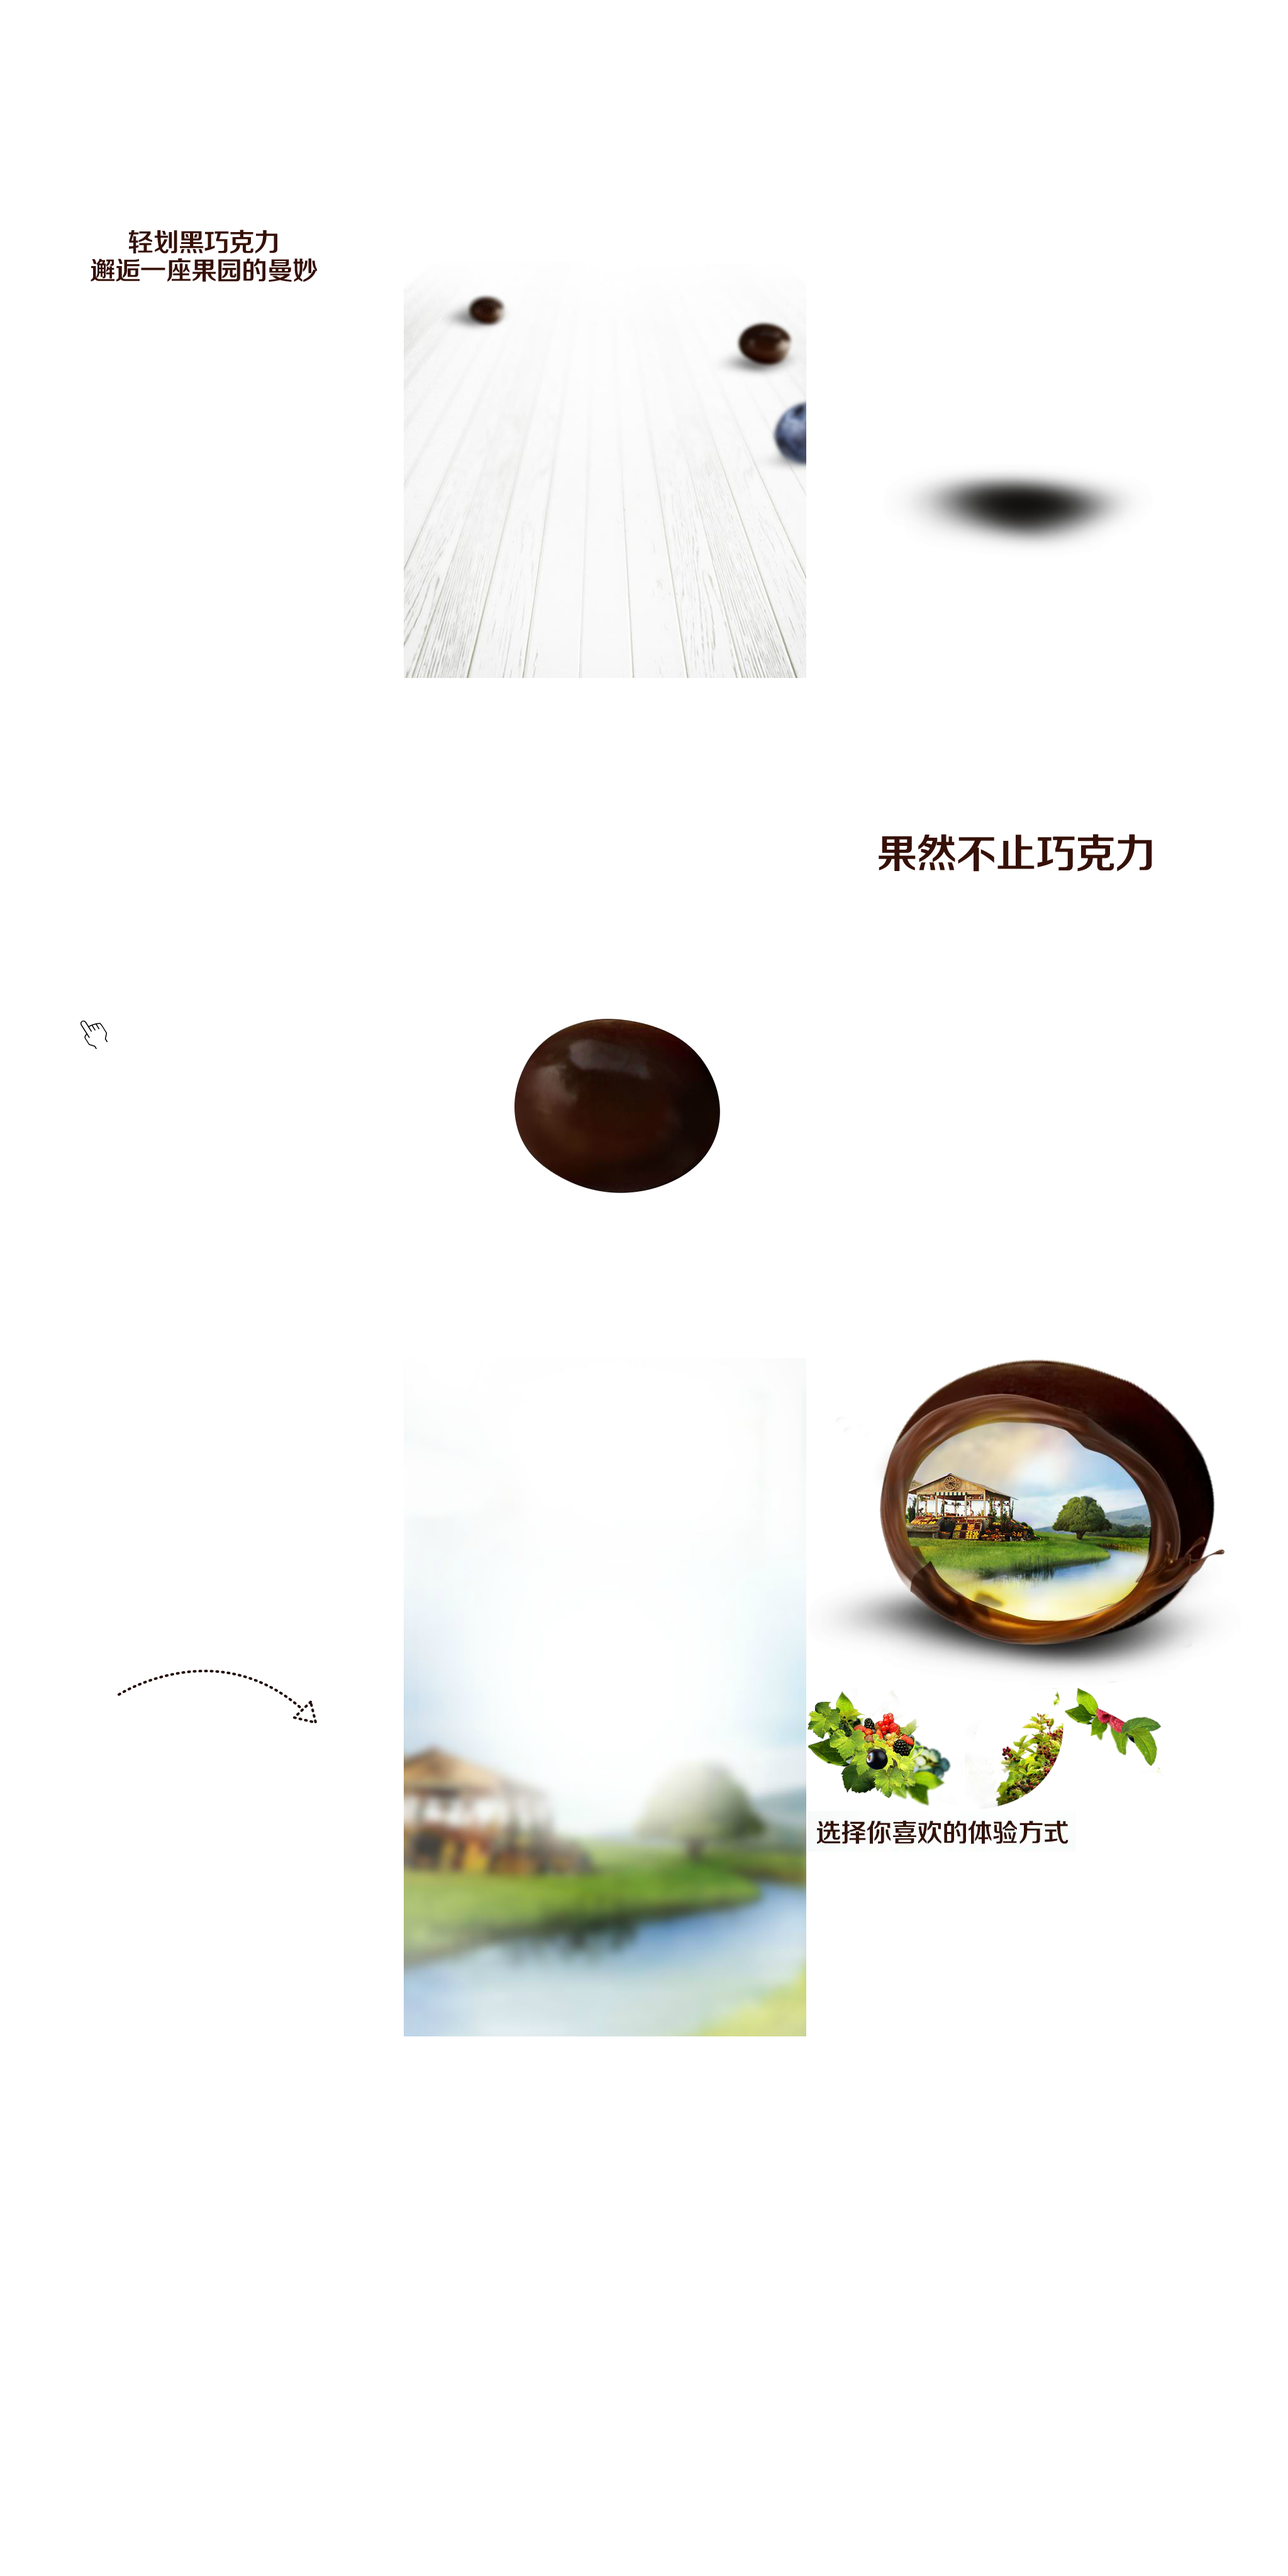
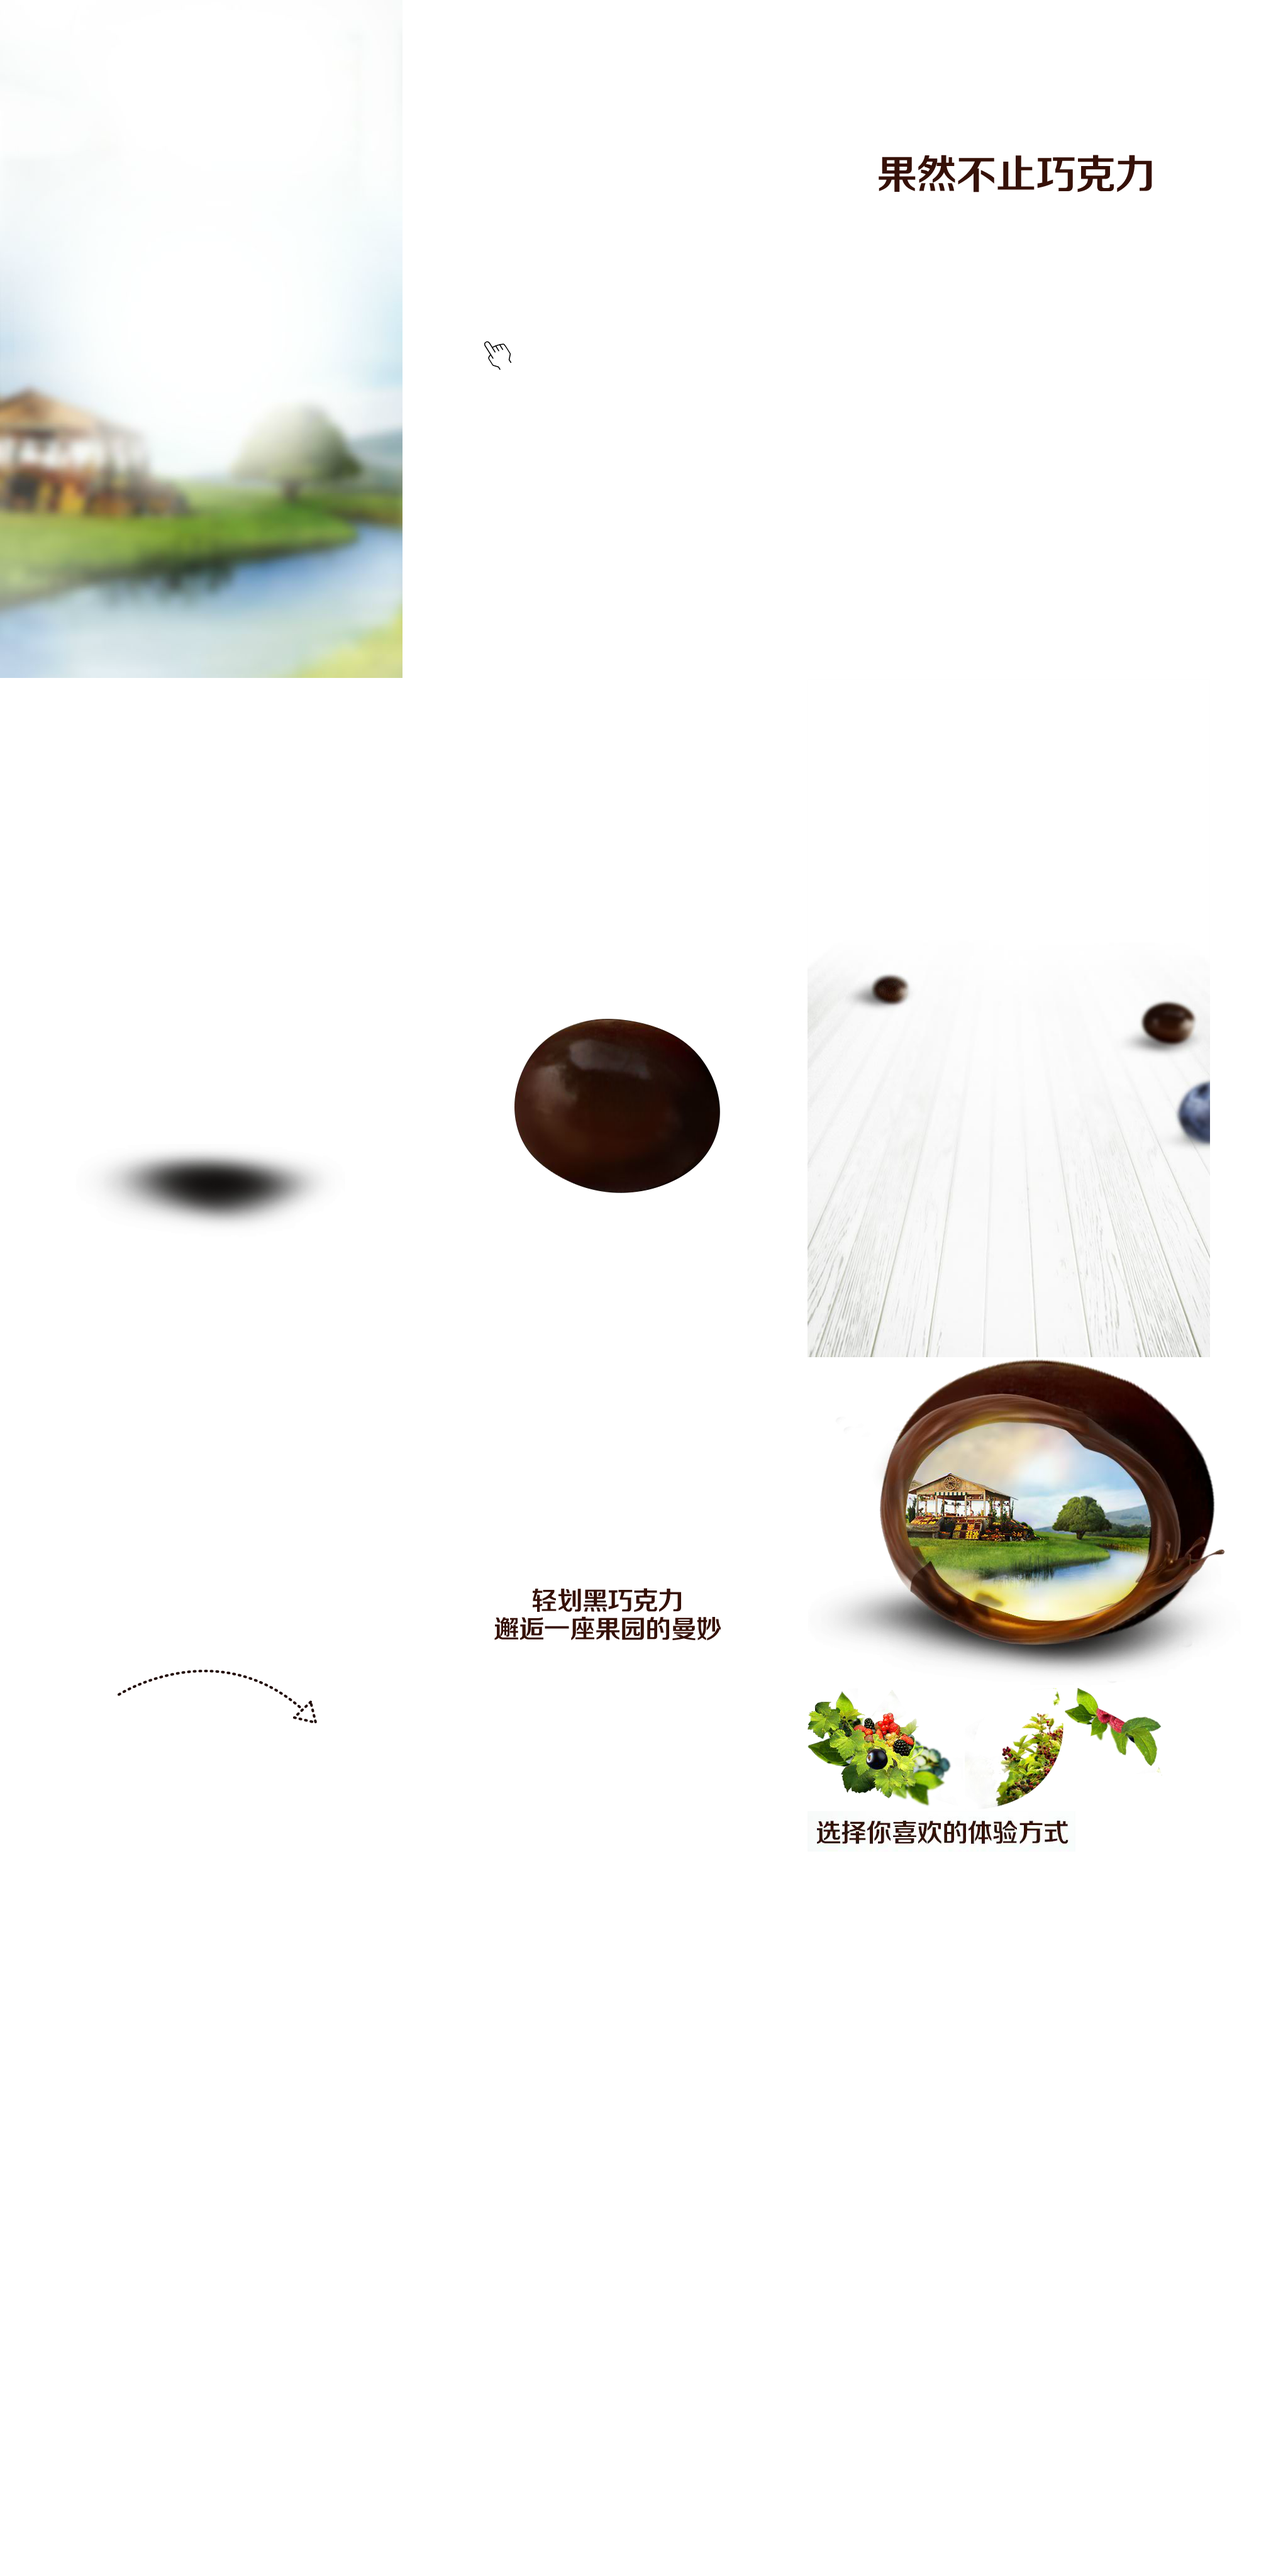
update

diff --git a/fla/singleAnim.js b/fla/singleAnim.js
@@ -192,172 +192,241 @@ lib.properties = {
 
 
 
-(lib.Juice_one_00001 = function() {
+(lib.chocolateFallDown = function() {
 	this.spriteSheet = ss["singleAnim_atlas_"];
 	this.gotoAndStop(25);
 }).prototype = p = new cjs.Sprite();
 
 
 
-(lib.Juice_one_00003 = function() {
+(lib.heading4 = function() {
 	this.spriteSheet = ss["singleAnim_atlas_"];
 	this.gotoAndStop(26);
 }).prototype = p = new cjs.Sprite();
 
 
 
-(lib.Juice_one_00005 = function() {
+(lib.heading5 = function() {
 	this.spriteSheet = ss["singleAnim_atlas_"];
 	this.gotoAndStop(27);
 }).prototype = p = new cjs.Sprite();
 
 
 
-(lib.Juice_one_00007 = function() {
+(lib.Juice_one_00001 = function() {
 	this.spriteSheet = ss["singleAnim_atlas_"];
 	this.gotoAndStop(28);
 }).prototype = p = new cjs.Sprite();
 
 
 
-(lib.Juice_one_00009 = function() {
+(lib.Juice_one_00003 = function() {
 	this.spriteSheet = ss["singleAnim_atlas_"];
 	this.gotoAndStop(29);
 }).prototype = p = new cjs.Sprite();
 
 
 
-(lib.Juice_one_00011 = function() {
+(lib.Juice_one_00005 = function() {
 	this.spriteSheet = ss["singleAnim_atlas_"];
 	this.gotoAndStop(30);
 }).prototype = p = new cjs.Sprite();
 
 
 
-(lib.Juice_one_00013 = function() {
+(lib.Juice_one_00007 = function() {
 	this.spriteSheet = ss["singleAnim_atlas_"];
 	this.gotoAndStop(31);
 }).prototype = p = new cjs.Sprite();
 
 
 
-(lib.Juice_one_00015 = function() {
+(lib.Juice_one_00009 = function() {
 	this.spriteSheet = ss["singleAnim_atlas_"];
 	this.gotoAndStop(32);
 }).prototype = p = new cjs.Sprite();
 
 
 
-(lib.Juice_one_00017 = function() {
+(lib.Juice_one_00011 = function() {
 	this.spriteSheet = ss["singleAnim_atlas_"];
 	this.gotoAndStop(33);
 }).prototype = p = new cjs.Sprite();
 
 
 
-(lib.Juice_one_00019 = function() {
+(lib.Juice_one_00013 = function() {
 	this.spriteSheet = ss["singleAnim_atlas_"];
 	this.gotoAndStop(34);
 }).prototype = p = new cjs.Sprite();
 
 
 
-(lib.Juice_one_00021 = function() {
+(lib.Juice_one_00015 = function() {
 	this.spriteSheet = ss["singleAnim_atlas_"];
 	this.gotoAndStop(35);
 }).prototype = p = new cjs.Sprite();
 
 
 
-(lib.Juice_one_00023 = function() {
+(lib.Juice_one_00017 = function() {
 	this.spriteSheet = ss["singleAnim_atlas_"];
 	this.gotoAndStop(36);
 }).prototype = p = new cjs.Sprite();
 
 
 
-(lib.Juice_one_00025 = function() {
+(lib.Juice_one_00019 = function() {
 	this.spriteSheet = ss["singleAnim_atlas_"];
 	this.gotoAndStop(37);
 }).prototype = p = new cjs.Sprite();
 
 
 
-(lib.Juice_one_00027 = function() {
+(lib.Juice_one_00021 = function() {
 	this.spriteSheet = ss["singleAnim_atlas_"];
 	this.gotoAndStop(38);
 }).prototype = p = new cjs.Sprite();
 
 
 
-(lib.Juice_one_00028 = function() {
+(lib.Juice_one_00023 = function() {
 	this.spriteSheet = ss["singleAnim_atlas_"];
 	this.gotoAndStop(39);
 }).prototype = p = new cjs.Sprite();
 
 
 
-(lib.Juice_one_00029 = function() {
+(lib.Juice_one_00025 = function() {
 	this.spriteSheet = ss["singleAnim_atlas_"];
 	this.gotoAndStop(40);
 }).prototype = p = new cjs.Sprite();
 
 
 
-(lib.Juice_one_00030 = function() {
+(lib.Juice_one_00027 = function() {
 	this.spriteSheet = ss["singleAnim_atlas_"];
 	this.gotoAndStop(41);
 }).prototype = p = new cjs.Sprite();
 
 
 
-(lib.Juice_one_00035 = function() {
+(lib.Juice_one_00028 = function() {
 	this.spriteSheet = ss["singleAnim_atlas_"];
 	this.gotoAndStop(42);
 }).prototype = p = new cjs.Sprite();
 
 
 
-(lib.Juice_one_00036 = function() {
+(lib.Juice_one_00029 = function() {
 	this.spriteSheet = ss["singleAnim_atlas_"];
 	this.gotoAndStop(43);
 }).prototype = p = new cjs.Sprite();
 
 
 
-(lib.Juice_one_00039 = function() {
+(lib.Juice_one_00030 = function() {
 	this.spriteSheet = ss["singleAnim_atlas_"];
 	this.gotoAndStop(44);
 }).prototype = p = new cjs.Sprite();
 
 
 
-(lib.Juice_one_00043 = function() {
+(lib.Juice_one_00035 = function() {
 	this.spriteSheet = ss["singleAnim_atlas_"];
 	this.gotoAndStop(45);
 }).prototype = p = new cjs.Sprite();
 
 
 
-(lib.Juice_one_00047 = function() {
+(lib.Juice_one_00036 = function() {
 	this.spriteSheet = ss["singleAnim_atlas_"];
 	this.gotoAndStop(46);
 }).prototype = p = new cjs.Sprite();
 
 
 
-(lib.s1 = function() {
+(lib.Juice_one_00039 = function() {
 	this.spriteSheet = ss["singleAnim_atlas_"];
 	this.gotoAndStop(47);
 }).prototype = p = new cjs.Sprite();
 
 
 
-(lib.swipeHint = function() {
+(lib.Juice_one_00043 = function() {
 	this.spriteSheet = ss["singleAnim_atlas_"];
 	this.gotoAndStop(48);
 }).prototype = p = new cjs.Sprite();
 
+
+
+(lib.Juice_one_00047 = function() {
+	this.spriteSheet = ss["singleAnim_atlas_"];
+	this.gotoAndStop(49);
+}).prototype = p = new cjs.Sprite();
+
+
+
+(lib.s1 = function() {
+	this.spriteSheet = ss["singleAnim_atlas_"];
+	this.gotoAndStop(50);
+}).prototype = p = new cjs.Sprite();
+
+
+
+(lib.swipeHint = function() {
+	this.spriteSheet = ss["singleAnim_atlas_"];
+	this.gotoAndStop(51);
+}).prototype = p = new cjs.Sprite();
+
+
+
+(lib.Tween7 = function() {
+	this.initialize();
+
+	// Layer 1
+	this.instance = new lib.heading5();
+	this.instance.setTransform(-205,-29);
+
+	this.addChild(this.instance);
+}).prototype = p = new cjs.Container();
+p.nominalBounds = new cjs.Rectangle(-205,-29,410,58);
+
+
+(lib.Tween6 = function() {
+	this.initialize();
+
+	// Layer 1
+	this.instance = new lib.heading5();
+	this.instance.setTransform(-205,-29);
+
+	this.addChild(this.instance);
+}).prototype = p = new cjs.Container();
+p.nominalBounds = new cjs.Rectangle(-205,-29,410,58);
+
+
+(lib.Tween5 = function() {
+	this.initialize();
+
+	// Layer 1
+	this.instance = new lib.heading4();
+	this.instance.setTransform(-200,-29);
+
+	this.addChild(this.instance);
+}).prototype = p = new cjs.Container();
+p.nominalBounds = new cjs.Rectangle(-200,-29,400,58);
+
+
+(lib.Tween4 = function() {
+	this.initialize();
+
+	// Layer 1
+	this.instance = new lib.heading4();
+	this.instance.setTransform(-200,-29);
+
+	this.addChild(this.instance);
+}).prototype = p = new cjs.Container();
+p.nominalBounds = new cjs.Rectangle(-200,-29,400,58);
 
 
 (lib.Tween3 = function() {
@@ -408,12 +477,9 @@ p.nominalBounds = new cjs.Rectangle(0,0,305,332);
 		this.stop();
 		app.showSwipeHint();
 	}
-	this.frame_65 = function() {
-		this.stop();
-	}
 
 	// actions tween:
-	this.timeline.addTween(cjs.Tween.get(this).wait(20).call(this.frame_20).wait(21).call(this.frame_41).wait(24).call(this.frame_65).wait(1));
+	this.timeline.addTween(cjs.Tween.get(this).wait(20).call(this.frame_20).wait(21).call(this.frame_41).wait(25));
 
 	// chocolate
 	this.instance = new lib.Choco_one_00092();
@@ -525,17 +591,48 @@ p.nominalBounds = new cjs.Rectangle(0,0,305,332);
 	this.timeline.addTween(cjs.Tween.get({}).to({state:[]}).to({state:[{t:this.instance_46}]},35).to({state:[{t:this.instance_47}]},6).to({state:[]},1).wait(24));
 	this.timeline.addTween(cjs.Tween.get(this.instance_46).wait(35).to({_off:false},0).to({_off:true,alpha:1},6).wait(25));
 
-	// s1
-	this.instance_48 = new lib.Symbol1("synched",0);
-	this.instance_48.setTransform(320,385.8,1,1,0,0,0,152.5,166);
+	// h4
+	this.instance_48 = new lib.Tween4("synched",0);
+	this.instance_48.setTransform(320,258.2);
 	this.instance_48.alpha = 0;
+	this.instance_48._off = true;
 
-	this.timeline.addTween(cjs.Tween.get(this.instance_48).to({y:530,alpha:1},20).to({_off:true},22).wait(24));
+	this.instance_49 = new lib.Tween5("synched",0);
+	this.instance_49.setTransform(320,276.2);
+	this.instance_49._off = true;
+
+	this.timeline.addTween(cjs.Tween.get(this.instance_48).wait(41).to({_off:false},0).to({_off:true,y:276.2,alpha:1},6).wait(19));
+	this.timeline.addTween(cjs.Tween.get(this.instance_49).wait(41).to({_off:false},6).wait(7).to({startPosition:0},0).to({alpha:0},5).to({_off:true},1).wait(6));
+
+	// h5
+	this.instance_50 = new lib.Tween6("synched",0);
+	this.instance_50.setTransform(320,232.4);
+	this.instance_50.alpha = 0;
+	this.instance_50._off = true;
+
+	this.instance_51 = new lib.Tween7("synched",0);
+	this.instance_51.setTransform(320,260.4);
+
+	this.timeline.addTween(cjs.Tween.get({}).to({state:[]}).to({state:[{t:this.instance_50}]},59).to({state:[{t:this.instance_51}]},6).wait(1));
+	this.timeline.addTween(cjs.Tween.get(this.instance_50).wait(59).to({_off:false},0).to({_off:true,y:260.4,alpha:1},6).wait(1));
+
+	// s1
+	this.instance_52 = new lib.Symbol1("synched",0);
+	this.instance_52.setTransform(320,385.8,1,1,0,0,0,152.5,166);
+	this.instance_52.alpha = 0;
+
+	this.timeline.addTween(cjs.Tween.get(this.instance_52).to({y:530,alpha:1},20).to({_off:true},22).wait(24));
+
+	// Layer 9
+	this.instance_53 = new lib.chocolateFallDown();
+	this.instance_53._off = true;
+
+	this.timeline.addTween(cjs.Tween.get(this.instance_53).wait(65).to({_off:false},0).wait(1));
 
 	// 2-1-f
-	this.instance_49 = new lib._21f();
+	this.instance_54 = new lib._21f();
 
-	this.timeline.addTween(cjs.Tween.get(this.instance_49).wait(66));
+	this.timeline.addTween(cjs.Tween.get(this.instance_54).wait(66));
 
 }).prototype = p = new cjs.MovieClip();
 p.nominalBounds = new cjs.Rectangle(320,539,640,1078);

diff --git a/js/app.js b/js/app.js
@@ -30,6 +30,7 @@ var app = {
 
 
 //$(function() {
+    app.resize();
 
     //creatjs touch event
     createjs.Touch.enable(stage, true, false);
@@ -41,7 +42,6 @@ var app = {
 
 
     //make screen viewport center
-    app.resize();
 
     //add swpie event
     $("#start").swipe({
